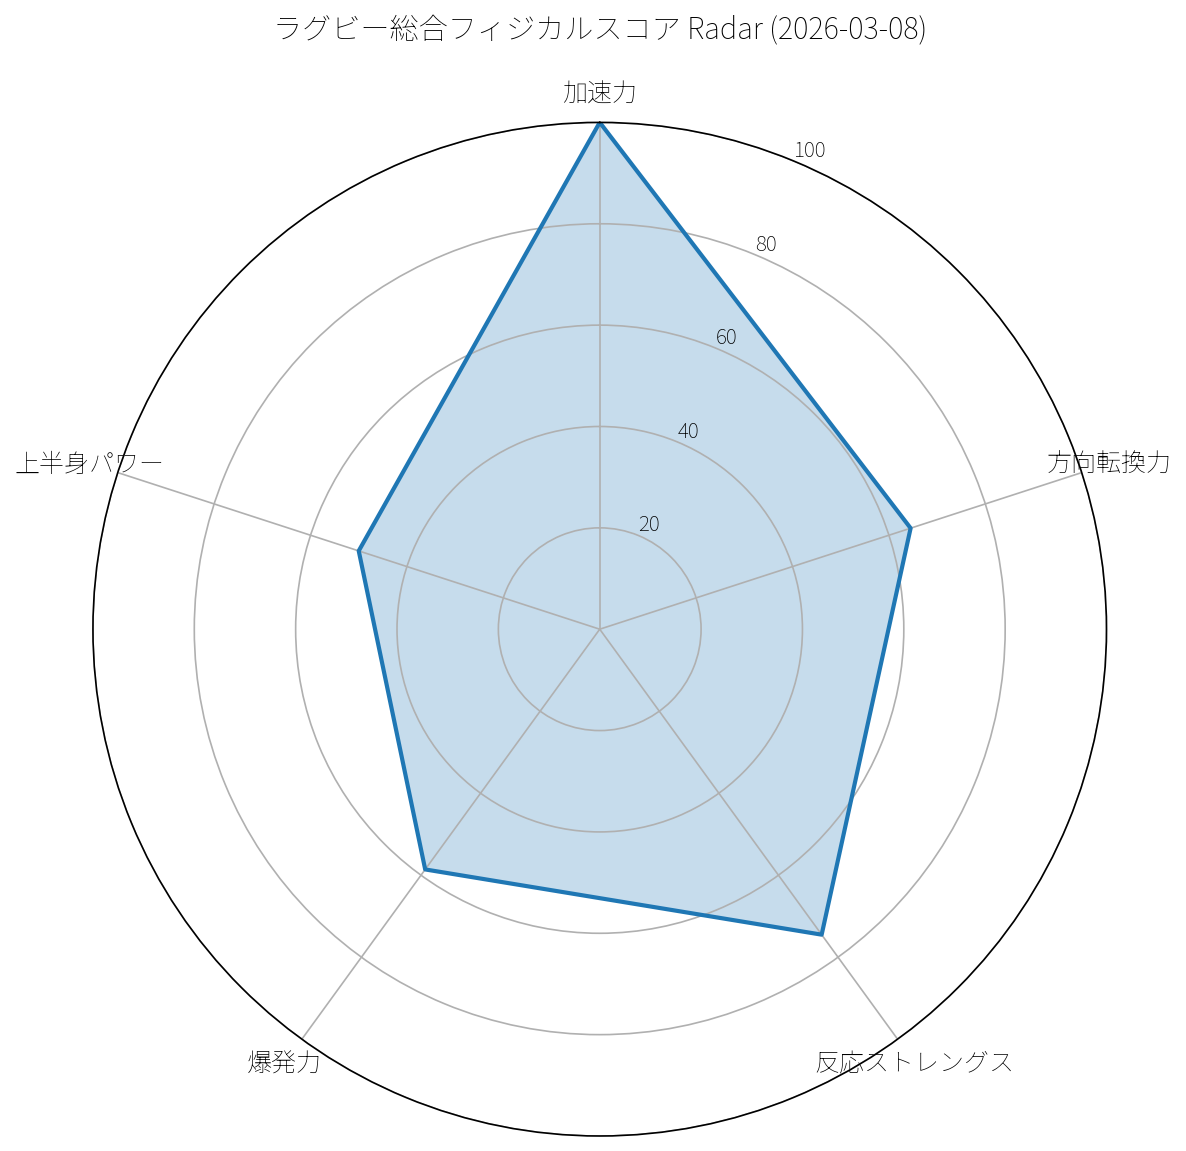
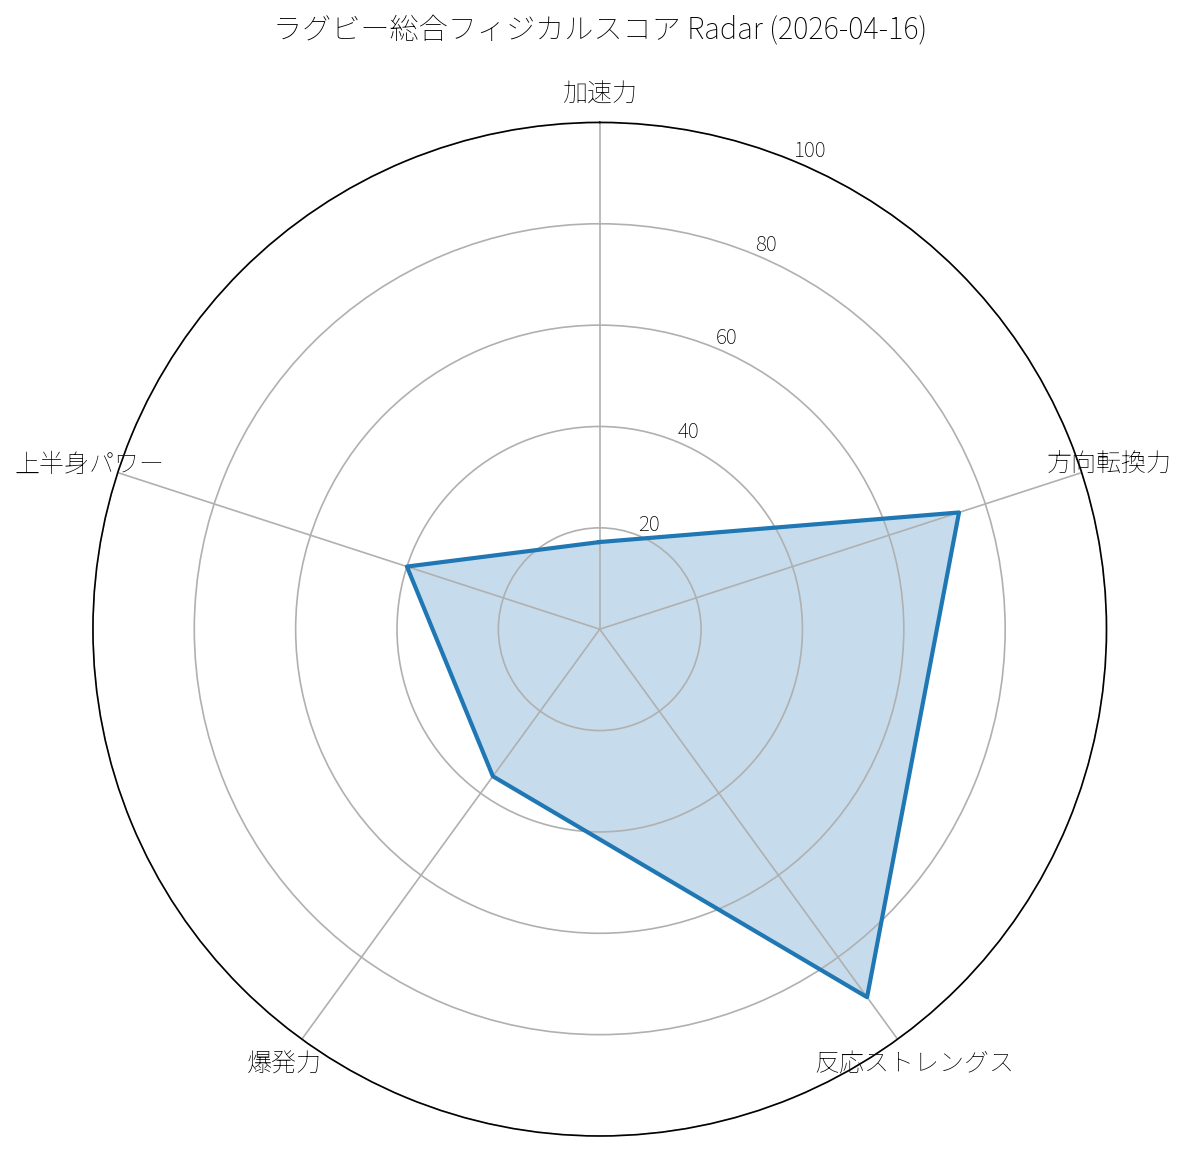
feat: update analysis results and add April decision log

Changed region(s): [[0.2808, 0.0912, 0.8111, 0.8818], [0.7487, 0.0, 0.7799, 0.0304]]

diff --git a/docs/dashboards/latest_summary.md b/docs/dashboards/latest_summary.md
@@ -1,6 +1,6 @@
 # 最新サマリー
 
-- 最新測定日: **2026-03-08**
+- 最新測定日: **2026-04-16**
 
 ![Radar Chart](radar_chart.png)
 
@@ -22,89 +22,96 @@
 
 ## ラグビー総合フィジカルスコア
 
-- スコア: **74.81**
-- 評価帯: **上級**
-- 最強ドメイン: **加速力**
-- 最弱ドメイン: **上半身パワー**
-- 優先課題1: **上半身パワー**
+- スコア: **51.13**
+- 評価帯: **基礎段階**
+- 最強ドメイン: **反応ストレングス**
+- 最弱ドメイン: **加速力**
+- 優先課題1: **加速力**
 - 優先課題2: **爆発力**
 
 ## 能力ドメインスコア
 
 | 選手 | 測定日 | 加速力スコア | 方向転換力スコア | 反応ストレングススコア | 爆発力スコア | 上半身パワースコア |
 |---|---|---|---|---|---|---|
-| togo | 2026-03-08 | 100.00 | 64.50 | 74.50 | 58.59 | 50.00 |
+| togo | 2026-04-16 | 17.20 | 74.54 | 89.75 | 35.87 | 40.00 |
 
 
 ## テストスコア
 
 | 選手 | 測定日 | テスト | 実測値 | 単位 | スコア | 評価帯 | ドメイン | 次レベルとの差 |
 |---|---|---|---|---|---|---|---|---|
-| togo | 2026-03-08 | 10m_sprint | 1.62 | s | 100.00 | エリート | 加速力 | 0.00 |
-| togo | 2026-03-08 | 20m_sprint | 3.45 | s | 100.00 | エリート | 加速力 | 0.00 |
-| togo | 2026-03-08 | pro_agility_5_10_5 | 6.31 | s | 64.50 | 発展中 | 方向転換力 | 1.01 |
-| togo | 2026-03-08 | cmj | 32.70 | cm | 63.43 | 発展中 | 爆発力 | 2.30 |
-| togo | 2026-03-08 | rsi | 1.72 | ratio | 74.50 | 上級 | 反応ストレングス | 0.28 |
-| togo | 2026-03-08 | standing_long_jump | 1.72 | m | 51.33 | 基礎段階 | 爆発力 | 0.28 |
-| togo | 2026-03-08 | medicine_ball_throw_2kg | 3.50 | m | 50.00 | 基礎段階 | 上半身パワー | 1.00 |
+| togo | 2026-04-16 | 10m_sprint | 2.55 | s | 0.00 | 初期段階 | 加速力 | 0.90 |
+| togo | 2026-04-16 | 20m_sprint | 4.27 | s | 43.00 | 初期段階 | 加速力 | 0.67 |
+| togo | 2026-04-16 | pro_agility_5_10_5 | 6.08 | s | 74.54 | 上級 | 方向転換力 | 0.78 |
+| togo | 2026-04-16 | cmj | 15.40 | cm | 14.00 | 初期段階 | 爆発力 | 12.60 |
+| togo | 2026-04-16 | rsi | 2.19 | ratio | 89.75 | 競技レベル | 反応ストレングス | 0.41 |
+| togo | 2026-04-16 | standing_long_jump | 1.98 | m | 68.67 | 発展中 | 爆発力 | 0.02 |
+| togo | 2026-04-16 | medicine_ball_throw_2kg | 3.00 | m | 40.00 | 初期段階 | 上半身パワー | 0.50 |
 
 
 ## スプリントセッション
 
 | テスト種別 | 試技数 | best_split_5m_s | best_split_10m_s | best_split_20m_s | best_split_30m_s | best_fly_5m_s | best_fly_10m_s | best_total_time_s | 品質フラグ |
 |---|---|---|---|---|---|---|---|---|---|
-| sprint_30m | 2 | - | 1.62 | 3.45 | 5.39 | 0.91 | 1.80 | 5.39 | ok |
+| sprint_30m | 3 | 1.58 | 2.55 | 4.27 | 5.95 | 0.82 | 0.85 | 5.95 | ok |
 
 ## 方向転換セッション
 
 | テスト種別 | 左右 | 試技数 | best_segment_1_s | best_segment_2_s | best_segment_3_s | best_total_time_s | 品質フラグ |
 |---|---|---|---|---|---|---|---|
-| pro_agility | left | 1 | - | - | - | 6.37 | ok |
-| pro_agility | right | 1 | - | - | - | 6.31 | ok |
+| pro_agility | left | 1 | 1.97 | 2.13 | 1.98 | 6.08 | ok |
+| pro_agility | right | 1 | 1.97 | 2.99 | 1.98 | 6.93 | ok |
 
 ## ジャンプセッション
 
 | テスト種別 | 試技数 | best_jump_height_cm | avg_jump_height_cm | std_jump_height_cm | best_contact_time_ms | best_flight_time_ms | best_rsi | 品質フラグ |
 |---|---|---|---|---|---|---|---|---|
-| CMJ | 2 | 32.70 | 30.45 | 2.25 | - | - | - | ok |
-| DJ | 3 | 14.00 | 12.87 | 1.14 | 192.00 | 338.00 | 1.72 | ok |
-| SJ | 3 | 23.00 | 21.30 | 1.39 | - | - | - | ok |
+| CMJ | 2 | 15.40 | 14.70 | 0.70 | - | - | - | ok |
+| DJ | 2 | 15.80 | 12.85 | 2.95 | 130.00 | 359.00 | 2.19 | ok |
+| SJ | 2 | 12.50 | 12.00 | 0.50 | - | - | - | ok |
 
 ## 水平ジャンプセッション
 
 | テスト種別 | 左右 | 試技数 | best_distance_cm | avg_distance_cm | std_distance_cm | 品質フラグ |
 |---|---|---|---|---|---|---|
-| bounding_10 | - | 2 | 1595 | 1558.50 | 36.50 | ok |
-| hop_5 | left | 2 | 702 | 645.50 | 56.50 | ok |
-| hop_5 | right | 2 | 695 | 653.00 | 42.00 | ok |
-| standing_long_jump | - | 3 | 172 | 168.00 | 4.32 | ok |
+| bounding_10 | - | 2 | 1760 | 1758.00 | 2.00 | ok |
+| hop_5 | left | 2 | 710 | 699.00 | 11.00 | ok |
+| hop_5 | right | 2 | 773 | 759.00 | 14.00 | ok |
+| standing_long_jump | - | 3 | 198 | 190.67 | 5.44 | ok |
 
 ## 投てきセッション
 
 | テスト種別 | 試技数 | best_distance_m | avg_distance_m | std_distance_m | 品質フラグ |
 |---|---|---|---|---|---|
-| medicine_ball_throw_2kg | 3 | 3.50 | 3.50 | 0.00 | ok |
+| medicine_ball_throw_2kg | 3 | 3.00 | 2.83 | 0.13 | ok |
 
 ## パーソナルベスト
 
 | 選手 | テスト種別 | 指標名 | ベスト値 | 単位 | 日付 | セッションID | 左右 |
 |---|---|---|---|---|---|---|---|
 | togo | CMJ | best_jump_height_cm | 32.70 | cm | 2026-03-08 | 2026-03-08_test1 | - |
-| togo | DJ | best_contact_time_ms | 192.00 | ms | 2026-03-08 | 2026-03-08_test1 | - |
-| togo | DJ | best_flight_time_ms | 338.00 | ms | 2026-03-08 | 2026-03-08_test1 | - |
-| togo | DJ | best_jump_height_cm | 14.00 | cm | 2026-03-08 | 2026-03-08_test1 | - |
-| togo | DJ | best_rsi | 1.72 | - | 2026-03-08 | 2026-03-08_test1 | - |
+| togo | DJ | best_contact_time_ms | 130.00 | ms | 2026-04-16 | 2026-04-16_test1 | - |
+| togo | DJ | best_flight_time_ms | 359.00 | ms | 2026-04-16 | 2026-04-16_test1 | - |
+| togo | DJ | best_jump_height_cm | 15.80 | cm | 2026-04-16 | 2026-04-16_test1 | - |
+| togo | DJ | best_rsi | 2.19 | - | 2026-04-16 | 2026-04-16_test1 | - |
 | togo | SJ | best_jump_height_cm | 23.00 | cm | 2026-03-08 | 2026-03-08_test1 | - |
-| togo | bounding_10 | best_distance_cm | 1595.00 | cm | 2026-03-08 | 2026-03-08_test1 | - |
-| togo | hop_5 | best_distance_cm | 702.00 | cm | 2026-03-08 | 2026-03-08_test1 | left |
-| togo | hop_5 | best_distance_cm | 695.00 | cm | 2026-03-08 | 2026-03-08_test1 | right |
-| togo | medicine_ball_throw_2kg | best_distance_m | 3.50 | m | 2026-03-08 | 2026-03-08_test1 | - |
-| togo | pro_agility | best_total_time_s | 6.37 | s | 2026-03-08 | 2026-03-08_test1 | left |
+| togo | bounding_10 | best_distance_cm | 1760.00 | cm | 2026-04-16 | 2026-04-16_test1 | - |
+| togo | hop_5 | best_distance_cm | 710.00 | cm | 2026-04-16 | 2026-04-16_test1 | left |
+| togo | hop_5 | best_distance_cm | 773.00 | cm | 2026-04-16 | 2026-04-16_test1 | right |
+| togo | medicine_ball_throw_2kg | best_distance_m | 3.00 | m | 2026-04-16 | 2026-04-16_test1 | - |
+| togo | pro_agility | best_segment_1_s | 1.97 | s | 2026-04-16 | 2026-04-16_test1 | left |
+| togo | pro_agility | best_segment_1_s | 1.97 | s | 2026-04-16 | 2026-04-16_test1 | right |
+| togo | pro_agility | best_segment_2_s | 2.13 | s | 2026-04-16 | 2026-04-16_test1 | left |
+| togo | pro_agility | best_segment_2_s | 2.99 | s | 2026-04-16 | 2026-04-16_test1 | right |
+| togo | pro_agility | best_segment_3_s | 1.98 | s | 2026-04-16 | 2026-04-16_test1 | left |
+| togo | pro_agility | best_segment_3_s | 1.98 | s | 2026-04-16 | 2026-04-16_test1 | right |
+| togo | pro_agility | best_total_time_s | 6.08 | s | 2026-04-16 | 2026-04-16_test1 | left |
 | togo | pro_agility | best_total_time_s | 6.31 | s | 2026-03-08 | 2026-03-08_test1 | right |
-| togo | sprint_30m | best_fly_10m_s | 1.80 | s | 2026-03-08 | 2026-03-08_test1 | - |
-| togo | sprint_30m | best_fly_5m_s | 0.91 | s | 2026-03-08 | 2026-03-08_test1 | - |
+| togo | sprint_30m | best_fly_10m_s | 0.85 | s | 2026-04-16 | 2026-04-16_test1 | - |
+| togo | sprint_30m | best_fly_5m_s | 0.82 | s | 2026-04-16 | 2026-04-16_test1 | - |
 | togo | sprint_30m | best_split_10m_s | 1.62 | s | 2026-03-08 | 2026-03-08_test1 | - |
 | togo | sprint_30m | best_split_20m_s | 3.45 | s | 2026-03-08 | 2026-03-08_test1 | - |
 | togo | sprint_30m | best_split_30m_s | 5.39 | s | 2026-03-08 | 2026-03-08_test1 | - |
+| togo | sprint_30m | best_split_5m_s | 1.58 | s | 2026-04-16 | 2026-04-16_test1 | - |
 | togo | sprint_30m | best_total_time_s | 5.39 | s | 2026-03-08 | 2026-03-08_test1 | - |
-| togo | standing_long_jump | best_distance_cm | 172.00 | cm | 2026-03-08 | 2026-03-08_test1 | - |
+| togo | standing_long_jump | best_distance_cm | 198.00 | cm | 2026-04-16 | 2026-04-16_test1 | - |

diff --git a/docs/logs/decision_log_2026-04-16.md b/docs/logs/decision_log_2026-04-16.md
@@ -1,0 +1,119 @@
+# Decision Log
+
+## ■ 基本情報
+- date: 2026-04-16
+- athlete: togo
+- type: measurement_based
+
+---
+
+## ■ 測定結果の扱い（重要）
+
+- 今回のスプリントおよび方向転換測定は芝生（河川敷）で実施
+- 前回（アスファルト）と条件が異なるため、タイムの単純比較は行わない
+- 今回の測定は「現状把握」として扱う
+- 今後は同一surfaceで測定し、次回以降で比較を行う
+
+---
+
+## ■ 観察結果（要約）
+
+### 評価可能な項目
+
+- RSIは向上（1.72 → 2.19）
+- standing long jumpは向上（172cm → 198cm）
+  - 芝生という不利条件下での向上のため、改善は強いと判断
+- Yo-Yoは大幅に改善（同条件のため信頼性高い）
+
+### 比較対象外
+
+- スプリントタイム（surface差のため）
+- COD（方向転換）（surface差のため）
+
+---
+
+## ■ 動きの評価（重要）
+
+- 膝が上がらずサイクル動作が弱い
+- がに股傾向が継続
+- 骨盤が後傾気味（腰引き）
+- 動作の切り替え（伸張⇄短縮）のメリハリが弱い
+
+---
+
+## ■ 親の判断（最重要）
+
+### 採用した課題
+- スプリントへの転換（能力→走り）を最優先課題とする
+- 切り替え（リズム・サイクル動作）は継続
+- 姿勢（骨盤・股関節）は補助として継続
+- 弾性は維持
+- 反復スプリント耐性（RSA）は維持
+
+### 採用理由
+- 弾性および持久能力は改善している
+- しかし、それらがスプリントに反映されていない
+- 能力そのものではなく「使い方（転換）」に課題があると判断
+- スプリント刺激不足により神経系適応が低下している可能性
+
+---
+
+## ■ 実施内容
+
+### 朝（毎日）
+
+- ① ウォームアップ
+  - ピラティス宿題（骨盤・体幹意識）
+
+- ② ウォールドリル（補助）
+  - 骨盤を立てる
+  - 股関節から動かす
+
+- ③ クイックステップ
+  - 高速足踏み（回転重視）
+
+- ④ Aスキップ（高速）
+  - 高さより回転スピード重視
+
+- ⑤ pogo（弾性）
+  - 軽く・速く接地
+
+- ⑥ 10〜20mスプリント（追加・最重要）
+  - 本数は少なくてよい（3〜5本）
+  - 全力に近い出力
+  - 地面を後ろに押す意識
+
+※疲労時は軽減  
+※トレーニング後に30分バイク（補助）
+
+---
+
+### 夕方（週2〜3回）
+
+- 20m × 4〜6本（20秒レスト）
+- Yo-Yo
+- 30mスプリント
+
+※ラグビー優先  
+※「速く動かす」＋「前に進む」を意識
+
+---
+
+## ■ 学び
+
+- 測定条件が異なる場合、比較は無意味になる
+- 弾性が向上してもスプリントは自動的には改善しない
+- 持久能力と弾性は大きく改善している
+- 能力の向上とパフォーマンス発揮（スプリント）は別物
+- スプリントには専用の神経刺激が必要
+- データは条件込みで解釈する必要がある
+
+---
+
+## ■ 補足（任意）
+
+- 体脂肪削減目的でバイクを追加
+- バイクは持久改善には有効
+- ただしスプリント能力の代替にはならないため補助として扱う
+
+---

diff --git a/docs/dashboards/target_gap_summary.md b/docs/dashboards/target_gap_summary.md
@@ -2,8 +2,8 @@
 
 ### Elite 目標との差
 
-- 10m: 現在 1.62s / Elite目標 1.60s / 差 0.02s
-- COD: 現在 6.31s / Elite目標 6.10s / 差 0.21s
-- RSI: 現在 1.72 / Elite目標 1.70 / 超過 0.02
-- CMJ: 現在 32.70cm / Elite目標 36.00cm / 差 3.30cm
-- MBT 2kg: 現在 3.50m / Elite目標 4.60m / 差 1.10m
+- 10m: 現在 2.55s / Elite目標 1.60s / 差 0.95s
+- COD: 現在 6.08s / Elite目標 6.10s / 超過 0.02s
+- RSI: 現在 2.19 / Elite目標 1.70 / 超過 0.49
+- CMJ: 現在 15.40cm / Elite目標 36.00cm / 差 20.60cm
+- MBT 2kg: 現在 3.00m / Elite目標 4.60m / 差 1.60m
